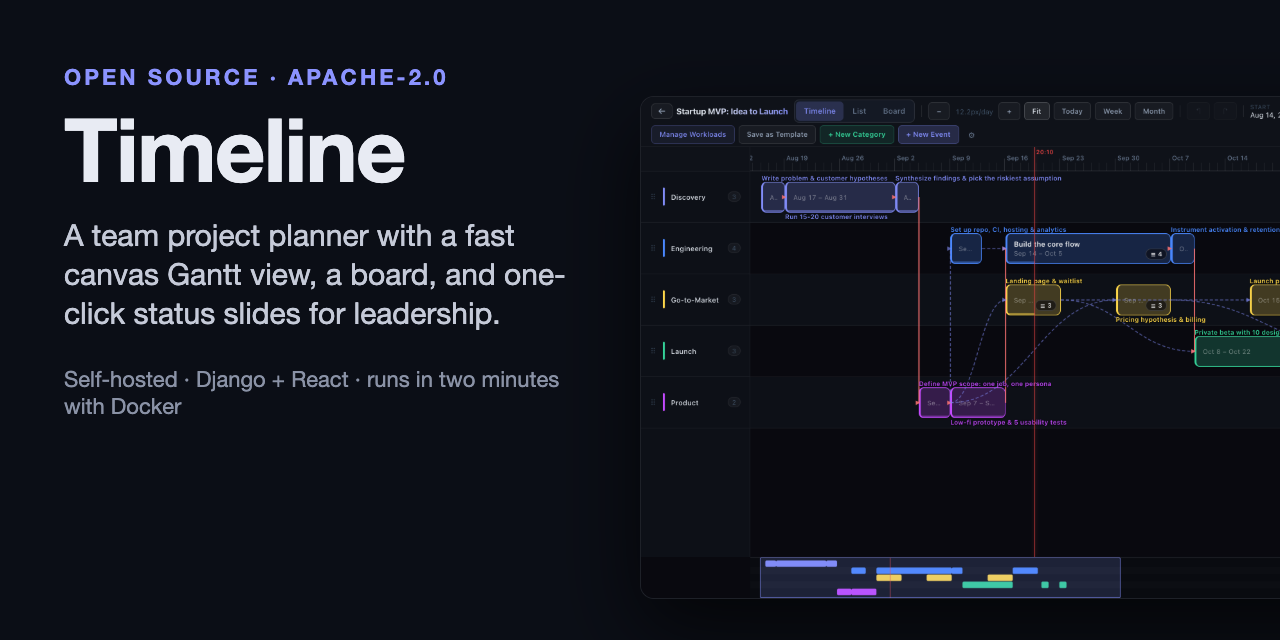
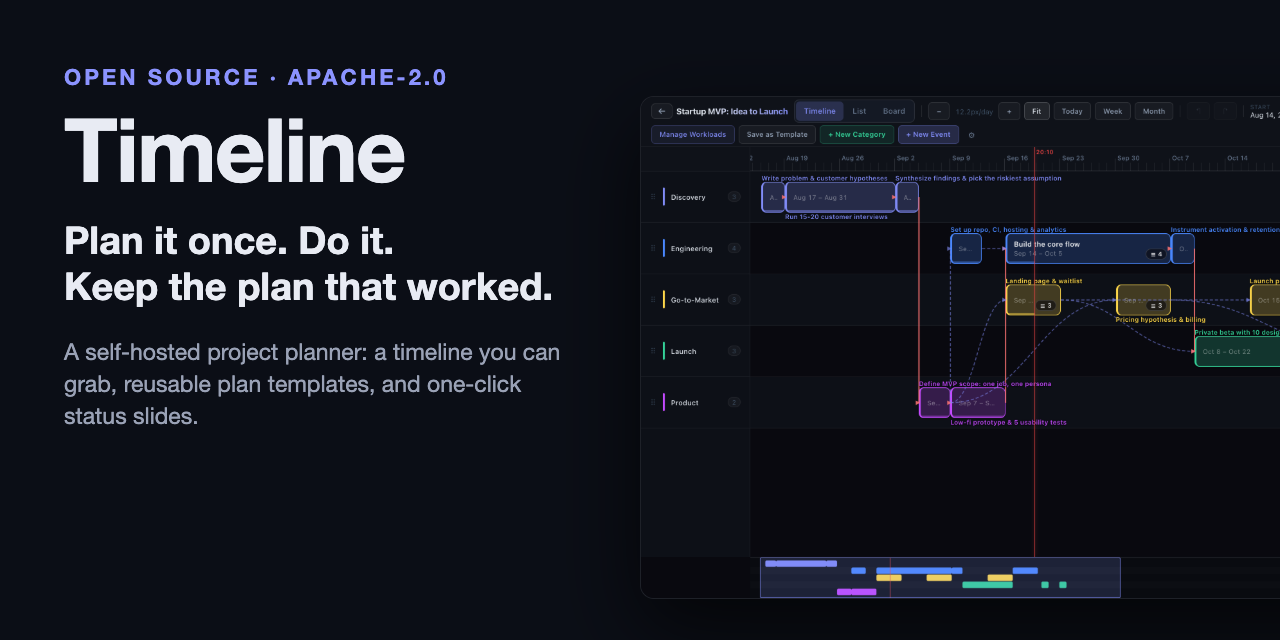
Reframe the README around reusable plans, and make templates live up to it
README: "Plan it once. Do it. Keep the plan that worked." A new opening says
who Timeline is for, and a Templates section near the top explains the idea a
finished project is the most valuable thing you own. The About note follows.

Checking that claim against the code found it was not quite true. Saving a
project as a template stored each event's percent complete and instantiating
copied it back, so a plan saved from a finished project started the next run
already 100% done. It also lost key-milestone flags and the to-do lists.

A template is now the plan, not the record of one run:
- kept: tracks, events, durations, dependencies, notes, key milestones, and
  each event's to-dos (due dates as day offsets from the start)
- dropped: dates, progress, to-do status and assignees, project members
- a project from a template always starts at zero, including from templates
  saved before this change

tests_template_reuse.py holds the promise through the real API. User guide,
architecture doc, changelog and the link-preview card follow the new framing.

Assisted-by: Claude

Changed region(s): [[0.0312, 0.3438, 0.4375, 0.6875]]

diff --git a/backend/projects/tests_template_reuse.py b/backend/projects/tests_template_reuse.py
@@ -1,0 +1,77 @@
+"""A finished project becomes a plan you can run again.
+
+The README's promise is "keep the plan that worked": save any project as a template, start the
+next one from it on a new date. These tests hold that promise through the real API: the plan comes
+back whole, and nothing that belonged to the first run (dates, progress, who did what) comes with it.
+"""
+from datetime import datetime, timedelta, timezone as dt_tz
+
+from django.contrib.auth import get_user_model
+from rest_framework.test import APITestCase
+
+from events.models import Event, Task
+from projects.models import Project, ProjectMembership, ProjectTemplate, Role
+
+User = get_user_model()
+T0 = datetime(2026, 3, 2, 9, 0, tzinfo=dt_tz.utc)
+
+
+class ReuseAFinishedProjectTests(APITestCase):
+    def setUp(self):
+        self.pm = User.objects.create_user('pm', 'pm@example.com', 'pw')
+        self.helper = User.objects.create_user('helper', 'helper@example.com', 'pw')
+        self.done = Project.objects.create(name='Spring launch', owner=self.pm)
+        ProjectMembership.objects.create(project=self.done, user=self.pm, role=Role.OWNER)
+        ProjectMembership.objects.create(project=self.done, user=self.helper, role=Role.EDITOR)
+        self.build = Event.objects.create(project=self.done, title='Build', category='Engineering', notes='Ship one job end to end.',
+                                          start=T0, end=T0 + timedelta(days=10), percent_complete=100)
+        self.launch = Event.objects.create(project=self.done, title='Launch', category='Go-to-market', is_milestone=True,
+                                           start=T0 + timedelta(days=10), end=T0 + timedelta(days=12), percent_complete=100)
+        self.launch.depends_on.set([self.build])
+        Task.objects.create(event=self.build, title='Wire the API', status='done', owner=self.pm, assignee=self.helper,
+                            due_date=(T0 + timedelta(days=4)).date(), order=0)
+        Task.objects.create(event=self.build, title='Load test', status='blocked', owner=self.pm, assignee=self.helper, order=1)
+        self.client.force_authenticate(self.pm)
+
+    def reuse(self, start):
+        saved = self.client.post('/api/templates/', {'project': self.done.id, 'name': 'Launch playbook'}, format='json')
+        self.assertEqual(saved.status_code, 201, saved.content)
+        made = self.client.post('/api/templates/instantiate/', {'key': saved.data['key'], 'start': start.isoformat(), 'name': 'Autumn launch'}, format='json')
+        self.assertEqual(made.status_code, 201, made.content)
+        return Project.objects.get(id=made.data['id'])
+
+    def test_the_plan_comes_back_whole_on_the_new_date(self):
+        start = datetime(2026, 9, 7, 9, 0, tzinfo=dt_tz.utc)
+        new = self.reuse(start)
+        ev = {e.title: e for e in new.events.all()}
+        self.assertEqual(set(ev), {'Build', 'Launch'})
+        self.assertEqual((ev['Build'].start, ev['Build'].end), (start, start + timedelta(days=10)))          # durations kept
+        self.assertEqual(ev['Launch'].start, start + timedelta(days=10))                                      # relative timing kept
+        self.assertEqual(list(ev['Launch'].depends_on.all()), [ev['Build']])                                  # dependencies kept
+        self.assertEqual((ev['Build'].category, ev['Build'].notes), ('Engineering', 'Ship one job end to end.'))
+        self.assertTrue(ev['Launch'].is_milestone)                                                            # key milestones kept
+        self.assertFalse(ev['Build'].is_milestone)
+
+    def test_nothing_from_the_first_run_comes_with_it(self):
+        new = self.reuse(datetime(2026, 9, 7, 9, 0, tzinfo=dt_tz.utc))
+        self.assertEqual(set(new.events.values_list('percent_complete', flat=True)), {0})                     # starts at zero
+        todos = list(Task.objects.filter(event__project=new).order_by('order'))
+        self.assertEqual([t.title for t in todos], ['Wire the API', 'Load test'])                             # the checklist survives
+        self.assertEqual({t.status for t in todos}, {'todo'})                                                 # nobody has done it yet
+        self.assertEqual({(t.owner_id, t.assignee_id) for t in todos}, {(self.pm.id, self.pm.id)})            # and it is yours now
+        self.assertEqual(todos[0].due_date, datetime(2026, 9, 11).date())                                     # 4 days in, on the new calendar
+        self.assertIsNone(todos[1].due_date)
+        self.assertEqual(set(new.memberships.values_list('user_id', flat=True)), {self.pm.id})                # last run's team is not copied
+
+    def test_a_template_saved_before_this_rule_still_starts_at_zero(self):
+        old = ProjectTemplate.objects.create(owner=self.pm, name='Old', categories=[], tasks=[
+            {'title': 'Legacy', 'category': 'X', 'start_offset_minutes': 0, 'duration_minutes': 60, 'percent_complete': 100, 'depends_on': []}])
+        made = self.client.post('/api/templates/instantiate/', {'key': f'saved:{old.id}', 'start': T0.isoformat()}, format='json')
+        self.assertEqual(made.status_code, 201, made.content)
+        self.assertEqual(Event.objects.get(project_id=made.data['id']).percent_complete, 0)
+
+    def test_the_original_project_is_untouched(self):
+        self.reuse(datetime(2026, 9, 7, 9, 0, tzinfo=dt_tz.utc))
+        self.build.refresh_from_db()
+        self.assertEqual((self.build.percent_complete, self.build.start), (100, T0))
+        self.assertEqual(Task.objects.filter(event=self.build, status='done').count(), 1)

diff --git a/backend/projects/templates.py b/backend/projects/templates.py
@@ -3,7 +3,7 @@ from datetime import timedelta
 
 from django.db import transaction
 
-from events.models import Category, Event
+from events.models import Category, Event, Task
 
 from .models import Project, ProjectMembership, Role
 
@@ -13,8 +13,14 @@ def spec_from_project(project):
 
     Task offsets are measured from the project's earliest event start, so the
     template can later be anchored to any start datetime.
+
+    A template is the PLAN, not the record of one run. It keeps what makes the plan reusable
+    (tracks, events, durations, dependencies, notes, which events are key milestones, and the
+    to-do items inside each event) and forgets what belonged to that run: the dates, the progress,
+    who did each to-do and whether it got done. A finished project therefore becomes a template
+    that starts at zero.
     """
-    events = list(project.events.prefetch_related('depends_on').order_by('start'))
+    events = list(project.events.prefetch_related('depends_on', 'tasks').order_by('start'))
     categories = [{'name': c.name, 'color': c.color} for c in project.categories.all()]
 
     anchor = events[0].start if events else None
@@ -28,8 +34,12 @@ def spec_from_project(project):
             'start_offset_minutes': int((e.start - anchor).total_seconds() // 60),
             'duration_minutes': max(1, int((e.end - e.start).total_seconds() // 60)),
             'notes': e.notes,
-            'percent_complete': e.percent_complete,
+            'is_milestone': e.is_milestone,
             'depends_on': [index_by_id[d.id] for d in e.depends_on.all() if d.id in index_by_id],
+            # To-dos travel as titles, with their due date as days from the project's start.
+            'todos': [{'title': t.title,
+                       'due_offset_days': (t.due_date - anchor.date()).days if t.due_date else None}
+                      for t in e.tasks.all()],
         })
     return {'categories': categories, 'tasks': tasks}
 
@@ -64,8 +74,19 @@ def create_project_from_spec(spec, *, name, description, start, owner, also_owne
             category=t.get('category', 'Default'),
             color=color_by_category.get(t.get('category'), ''),
             notes=t.get('notes', ''),
-            percent_complete=t.get('percent_complete', 0),
+            # Always a fresh start. Templates saved before this rule still carry the progress of
+            # the project they came from; it is ignored, not copied into the new project.
+            percent_complete=0,
+            is_milestone=bool(t.get('is_milestone', False)),
         ))
+        for order, todo in enumerate(t.get('todos') or []):
+            title = str(todo.get('title') or '').strip()[:200]
+            if not title:
+                continue
+            offset = todo.get('due_offset_days')
+            Task.objects.create(
+                event=created[-1], title=title, order=order, owner=owner, assignee=owner,
+                due_date=(start + timedelta(days=int(offset))).date() if isinstance(offset, int) else None)
 
     # Wire dependencies (stored as task indices).
     for t, ev in zip(spec.get('tasks', []), created):

diff --git a/README.md b/README.md
@@ -6,23 +6,68 @@
 [![Live demo](https://img.shields.io/badge/live%20demo-try%20it-8b93ff.svg)](https://web-production-28ba24.up.railway.app)
 [![Self-hosted](https://img.shields.io/badge/self--hosted-Docker-2496ED.svg)](#run-it-yourself-in-two-minutes)
 
-**A self-hosted team project planner built around a timeline you can actually grab.** The
-Gantt-style view is drawn on canvas, so dragging, zooming, dependency arrows and the critical path
-stay smooth with hundreds of events on screen, including in Safari and on a phone. When leadership
-asks where the project stands, one click turns the same schedule into a one-page status report you
-can print, save as a PDF, or download as a native, fully editable PowerPoint slide.
+**Plan it once. Do it. Keep the plan that worked.**
 
-**[Try the live demo](https://web-production-28ba24.up.railway.app)** (sign in as `demo` / `demo12345`) ·
-[Run it in two minutes](#run-it-yourself-in-two-minutes) ·
+Timeline is a self-hosted project planner for the person who has to get something
+big done, often for the first time: a product launch, a fundraise, an office move,
+a hiring push, a first marathon. You work out the steps, put them on a timeline you
+can actually grab, and run the project from it. When it is done, you save the plan
+as a template, and the next launch, the next round, or the next person on your team
+starts from a plan that already worked instead of a blank page.
+
+The timeline is drawn on canvas, so dragging, zooming, dependency arrows and the
+critical path stay smooth with hundreds of events on screen, including on a phone.
+When leadership asks where the project stands, one click turns the same schedule into
+a one-page status report you can print, save as a PDF, or download as a fully
+editable PowerPoint slide.
+
+**[Try the live demo](https://web-production-28ba24.up.railway.app)** (sign in as
+`demo` / `demo12345`) · [Run it in two minutes](#run-it-yourself-in-two-minutes) ·
+[Templates](#templates-the-plan-that-worked) ·
 [The status report](#the-status-report-your-schedule-as-a-leadership-slide) ·
-[User guide](docs/USER_GUIDE.md) ·
-[Architecture](docs/ARCHITECTURE.md)
+[User guide](docs/USER_GUIDE.md) · [Architecture](docs/ARCHITECTURE.md)
 
 ![Zooming the timeline, moving an event while its dependency arrows follow, undo, the board, and the status report](docs/images/demo.gif)
 
 Free and open source under the [Apache 2.0 license](LICENSE): use it, modify it, and redistribute
 it, including commercially. Every project is private to the people you invite, with four roles from
 viewer to owner.
+
+## Templates: the plan that worked
+
+Most projects are not new. They are the second product launch, the fourth hire, the
+annual conference. But the plan from last time lives in someone's head, a stale
+document, or a spreadsheet nobody trusts, so every run starts over.
+
+Timeline treats a finished project as the most valuable thing you own. Any project
+can be saved as a template in one step. It keeps the tracks, the events, their
+durations and dependencies, the notes, which events are key milestones, and the to-do
+list inside each event. It forgets what belonged to that one run: the dates, the
+progress, and who did what. Start a new project from it, pick the day it begins, and
+every event lands in the right place with its dependencies intact, at zero percent,
+ready to go. Then you adjust it for this run, do the work, and save it again if you
+learned something.
+
+Over time a team builds up a library of plans that are known to work. A new hire
+running their first launch does not need to know how; they need the template from
+the last one and a start date.
+
+Timeline ships with built-in plans so you can see the idea before you have a
+library of your own:
+
+- **Business:** Startup MVP: Idea to Launch, Seed Fundraising Round, Customer
+  Discovery Sprint, Go-to-Market Launch, Hire a Key Role, Quarterly OKR Cycle,
+  Incorporate & Set Up the Company
+- **Work:** Two-Week Sprint, Product Launch, Event Plan, Custom Shop Build
+- **Hobby:** Homebrew a Batch of Ale, Backyard Raised-Bed Garden, First Marathon,
+  Solid-Wood Dining Table Build, Record & Release a Song, Write Your First Novel,
+  Frame-Off Classic Car Restore, Hand-Knit Sweater, Open Water Diver Certification,
+  Build a Steel-String Acoustic
+
+The hobby plans are not a joke. They are there because the tool is for anyone who
+has to do a big thing well, and a marathon has dependencies too.
+
+![The template picker](docs/images/templates.png)
 
 ## The status report: your schedule as a leadership slide
 
@@ -164,21 +209,6 @@ Outlook, Google Calendar and Apple Calendar, everything or key milestones only. 
 export Microsoft Project XML, the interchange format most scheduling tools open,
 with dependencies intact and tasks set to manual scheduling so your dates arrive
 unchanged. The XML is validated against Microsoft's published schema.
-
-**Templates.** Start a project from a built-in plan anchored to a date you choose,
-or save any project of your own as a template. Built-ins cover business,
-engineering, and hobby projects:
-
-- Business: Startup MVP: Idea to Launch, Seed Fundraising Round, Customer
-  Discovery Sprint, Go-to-Market Launch, Hire a Key Role, Quarterly OKR Cycle,
-  Incorporate & Set Up the Company
-- Work: Two-Week Sprint, Product Launch, Event Plan, Custom Shop Build
-- Hobby: Homebrew a Batch of Ale, Backyard Raised-Bed Garden, First Marathon,
-  Solid-Wood Dining Table Build, Record & Release a Song, Write Your First Novel,
-  Frame-Off Classic Car Restore, Hand-Knit Sweater, Open Water Diver
-  Certification, Build a Steel-String Acoustic
-
-![The template picker](docs/images/templates.png)
 
 **Teams and roles.** Every project is private to its members. Roles are owner,
 editor, commenter, and viewer. Reusable teams let you add a whole group to a
@@ -356,9 +386,11 @@ repository. [SECURITY.md](SECURITY.md) has the details.
 
 ## About
 
-I manage projects for a living, and I wanted a planner that is simple, interactive, and just
-works: grab an event and move it, see what it pushes, and hand leadership a slide without rebuilding
-it by hand every week. I did not have the coding chops to build that alone. Timeline was built with
+I manage projects for a living. Every project I ran taught me something about how to
+run the next one, and none of my tools had a place to keep that. I wanted a planner
+where the plan is the thing you build, and a finished plan is the thing you keep:
+grab an event and move it, see what it pushes, hand leadership a slide without
+rebuilding it by hand, and when it is done, save it for next time. I did not have the coding chops to build that alone. Timeline was built with
 a great deal of help from an AI coding assistant (Claude), and every change is tested and checked
 against the running app before it ships. Bug reports, ideas and pull requests are all welcome; the
 [issues](https://github.com/vakahnke/Timeline/issues) marked *good first issue* are a fine place to start.

diff --git a/docs/ARCHITECTURE.md b/docs/ARCHITECTURE.md
@@ -187,6 +187,12 @@ live in code (`backend/projects/templates_builtin.py`); saved templates store th
 shifted so the first lands on the chosen start date and dependencies are re-wired. The project can
 be created for yourself or for someone you already work with.
 
+A template is the **plan**, not the record of one run (`spec_from_project`). Saving a project keeps
+tracks, events, durations, dependencies, notes, key-milestone flags and each event's to-do list
+(titles, with due dates as day offsets). It drops dates, progress, to-do status and assignees, and
+the project's members. A new project always starts at zero percent, including from templates saved
+before that rule existed. `backend/projects/tests_template_reuse.py` holds this through the API.
+
 ## Email
 
 `backend/projects/emails.py` sends account notices and password-reset mail through Django's

diff --git a/CHANGELOG.md b/CHANGELOG.md
@@ -3,6 +3,19 @@
 Notable changes to Timeline. The format follows [Keep a Changelog](https://keepachangelog.com/),
 and versions follow [Semantic Versioning](https://semver.org/).
 
+## [Unreleased]
+
+### Changed
+- **A saved template is now the plan, not the record of one run.** Saving a finished project as a
+  template keeps key-milestone flags and each event's to-do list, and no longer carries progress:
+  a project started from it begins at zero percent with every to-do open and assigned to you.
+  Templates saved earlier also start at zero.
+- The README leads with what Timeline is for: plan it once, do it, keep the plan that worked.
+
+### Fixed
+- An event about 140px wide could not be Ctrl/⌘-dragged by its centre, because the hover buttons
+  sat there.
+
 ## [1.0.0] - 2026-09-19
 
 The first tagged release. Everything below is in it.

diff --git a/docs/USER_GUIDE.md b/docs/USER_GUIDE.md
@@ -174,6 +174,12 @@ dependencies) shifted to a start date you choose.
 - **Save your own:** open a project → **Save as Template** in the toolbar. Saved templates
   are private to you and appear alongside the built-ins in the **From Template** picker
   (delete them there).
+- **What a template keeps:** the plan. Tracks, events, their durations and dependencies, notes,
+  which events are key milestones, and the to-do list inside each event (due dates move with the
+  new start date).
+- **What it leaves behind:** that one run. The dates, the progress, who was assigned each to-do and
+  whether it was done, and the project's members. A project started from a template always begins
+  at zero, so a finished project makes a clean starting point for the next one.
 
 ## 5. Teams
 
